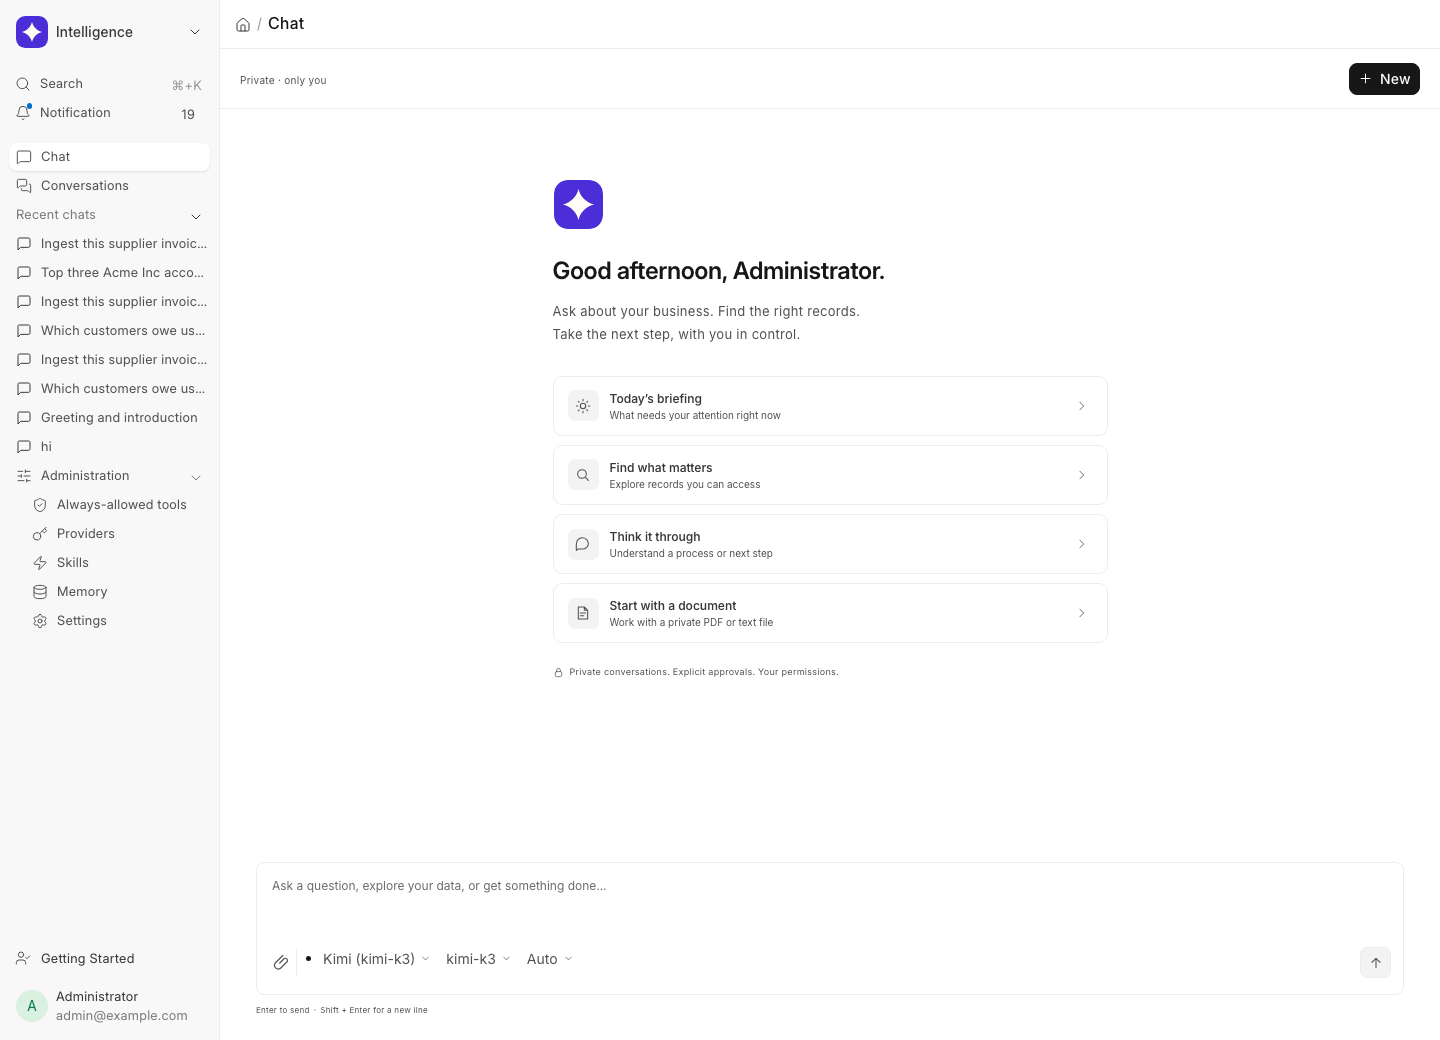
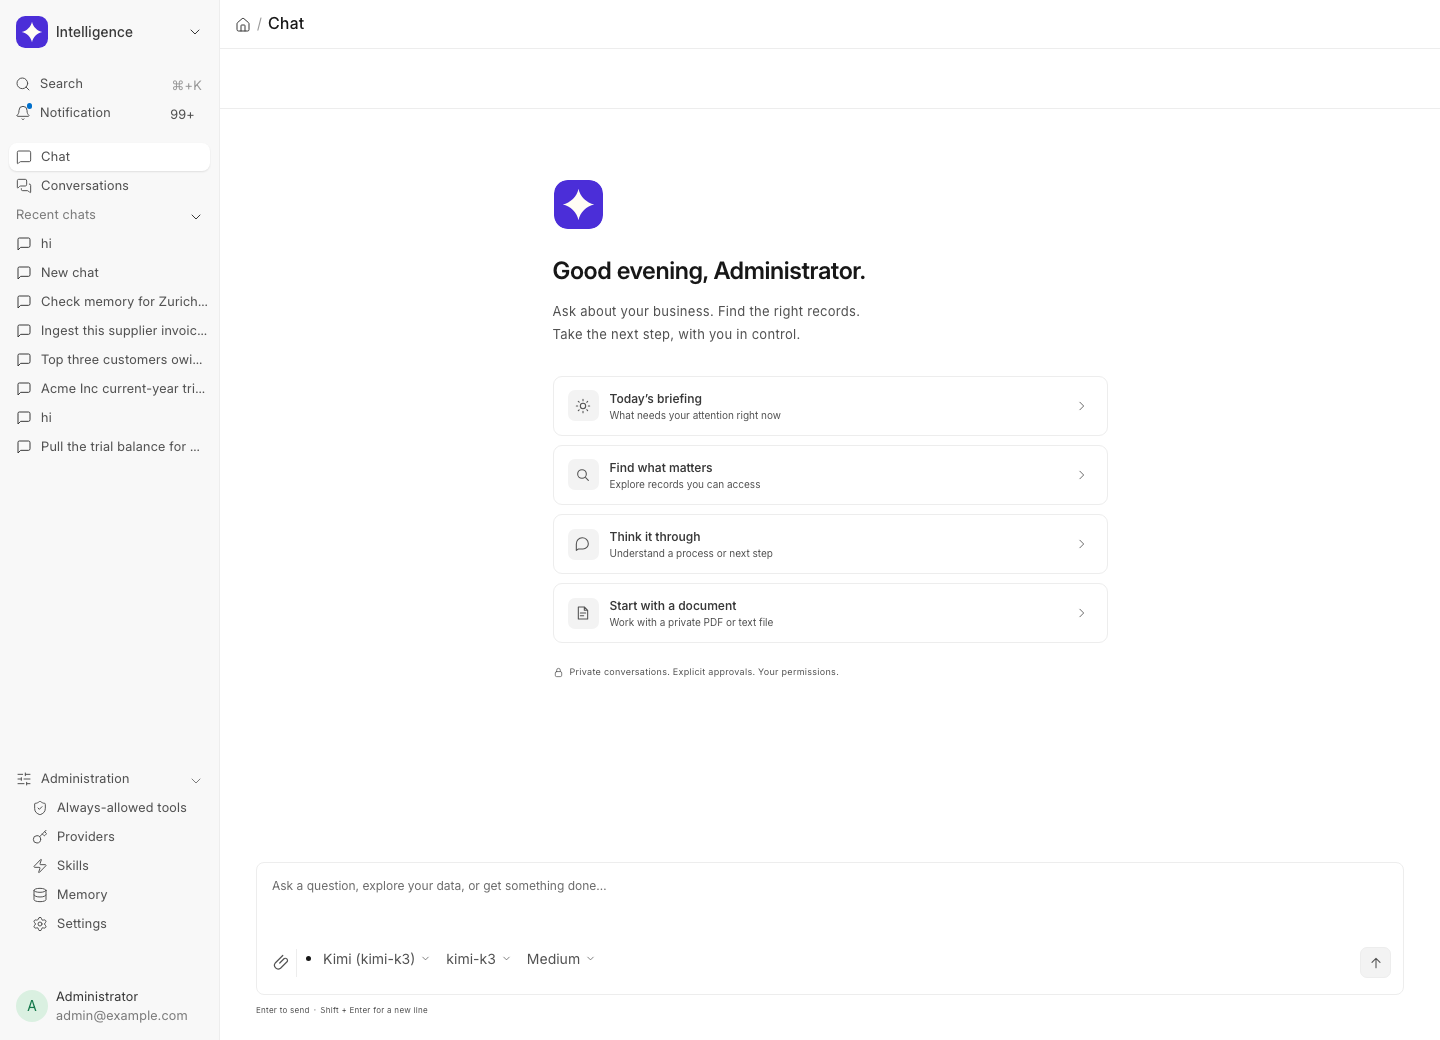
docs: recapture the 0.9.x chrome and record the live verification
The welcome and desk-sidebar captures show the 0.9.x sidebar (icons,
Administration pinned at the bottom, no onboarding) and verification.md
records the 48-check live pass on the deployed 0.9.3 image, including
the queue flush, the ZRH-7741 lexical recall and the title behavior on
greetings versus real tasks.

diff --git a/docs/verification.md b/docs/verification.md
@@ -129,6 +129,14 @@ After the deploy, **47/47 live checks passed** (one memory-embedding check skipp
 
 One verification lesson is recorded for future deploys: the asset marker flips as soon as the web container serves the new build, while `bench migrate` (sidebar convergence, onboarding and skill seeds) can still be running, and leftover seed counts from older releases can satisfy a lax readiness gate. Readiness must assert a release-specific seeded record, such as the Module Onboarding row or an icon on the Chat sidebar row; the first 0.8.2 check run raced the migrate and the strict rerun passed unchanged.
 
+## Live verification of 0.9.3, 27 September 2026
+
+Image `ghcr.io/greatwharf/frappe-intelligence:0.9.3` (tag `v0.9.3`, commit `8dab403`) was deployed to the same disposable ERPNext v16 site. Local gates before the push: **859 Python tests**, **136 dependency-free UI tests in both DOM modes**, ruff lint and formatting, the mocked Chromium suites, all green; GitHub Actions ran green on the same tree, including the real Frappe v15 and v16 install/migrate jobs.
+
+0.9.x removes the Getting Started onboarding (the owner rejected it live) and pins the Administration group to the sidebar bottom with native flex; adds message queueing while a run works (queued entries auto-send in order on the settle transition); pins the chat page into its real scroll host so neither the document nor `.main-section` can grow a second scrollbar; makes retrieval work with no embeddings endpoint at all (chunks always index, BM25 ranks them, bootstrap reports `mode: lexical` honestly); skips the title call for small talk so "hi" keeps the user's own words while question-form candidates land as statements; gives the provider form Default Model/Default Thinking Effort labels, a chipped catalog and per-model output ceilings; dedupes identical memories in place; and answers the Frappe Cloud Marketplace Semgrep findings with justified nosemgrep markers.
+
+After the deploy and a worker cool-down, **48/48 live checks passed**: the sidebar order, grouping, icons and 1px bottom pin with no Getting Started link; the terse working banner; the composer queue showing and flushing ("Now the same for Acme Limited" auto-sent and completed); the task run on `muse-spark-1.3` completing through approval rounds with the generated title "Top three customers owing Acme Inc in Accounts Receivable" replacing the placeholder; "hi" staying "hi"; a synthetic memory (ZRH-7741) recalled through the approval flow and reflected in the answer with no embeddings endpoint on the site; invoice ingestion proposing seven approval cards; the provider form's renamed labels, 47 model chips and hidden API key; the settings banner reading keyword matching; and no document or main-section scrollbar. One greeting run failed transiently at the gateway ("provider could not be reached") and passed on retry, exercising the sanitized failure state as designed. Captures: [screenshots/welcome.png](screenshots/welcome.png), [screenshots/desk-sidebar.png](screenshots/desk-sidebar.png).
+
 ## Remaining validation boundaries
 
 - Actual Frappe/ERPNext install, migration, native permission dispatch and RQ/realtime behavior on the target site.
